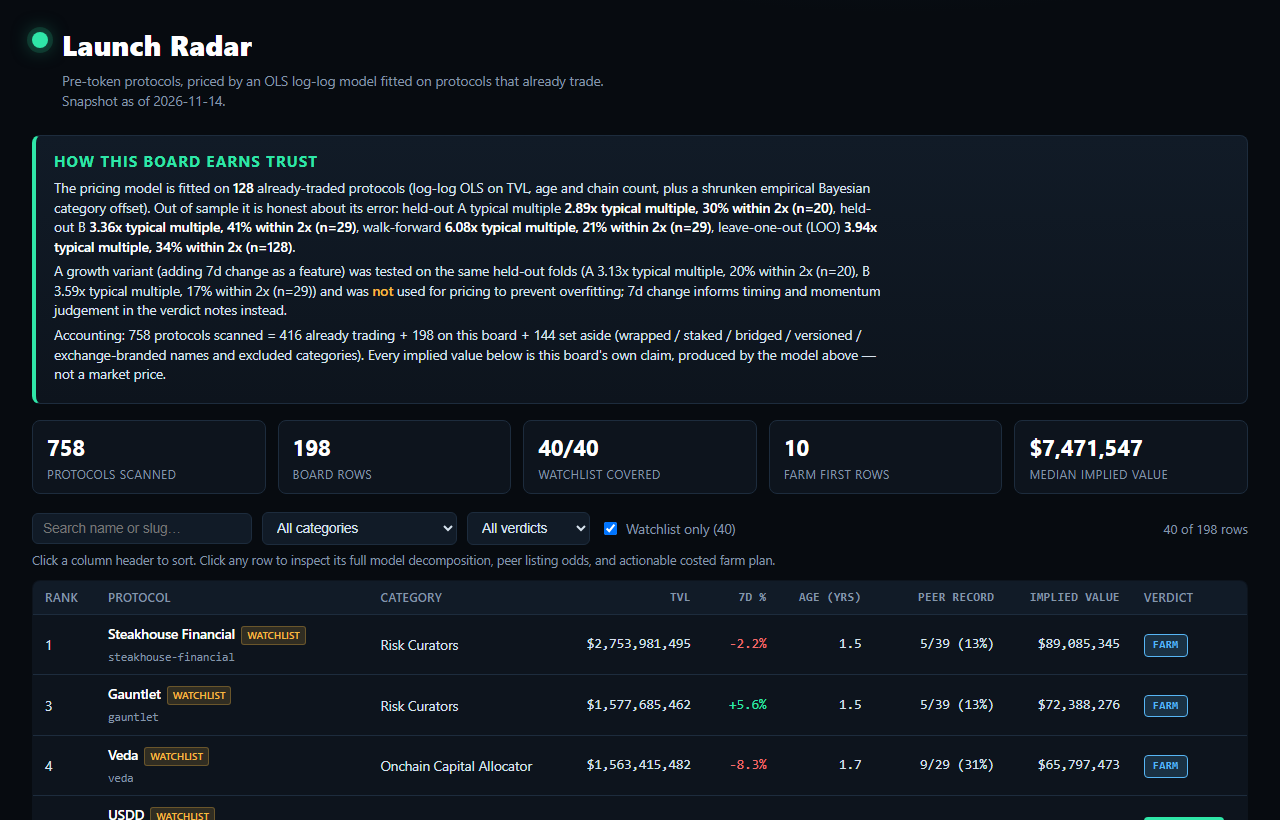
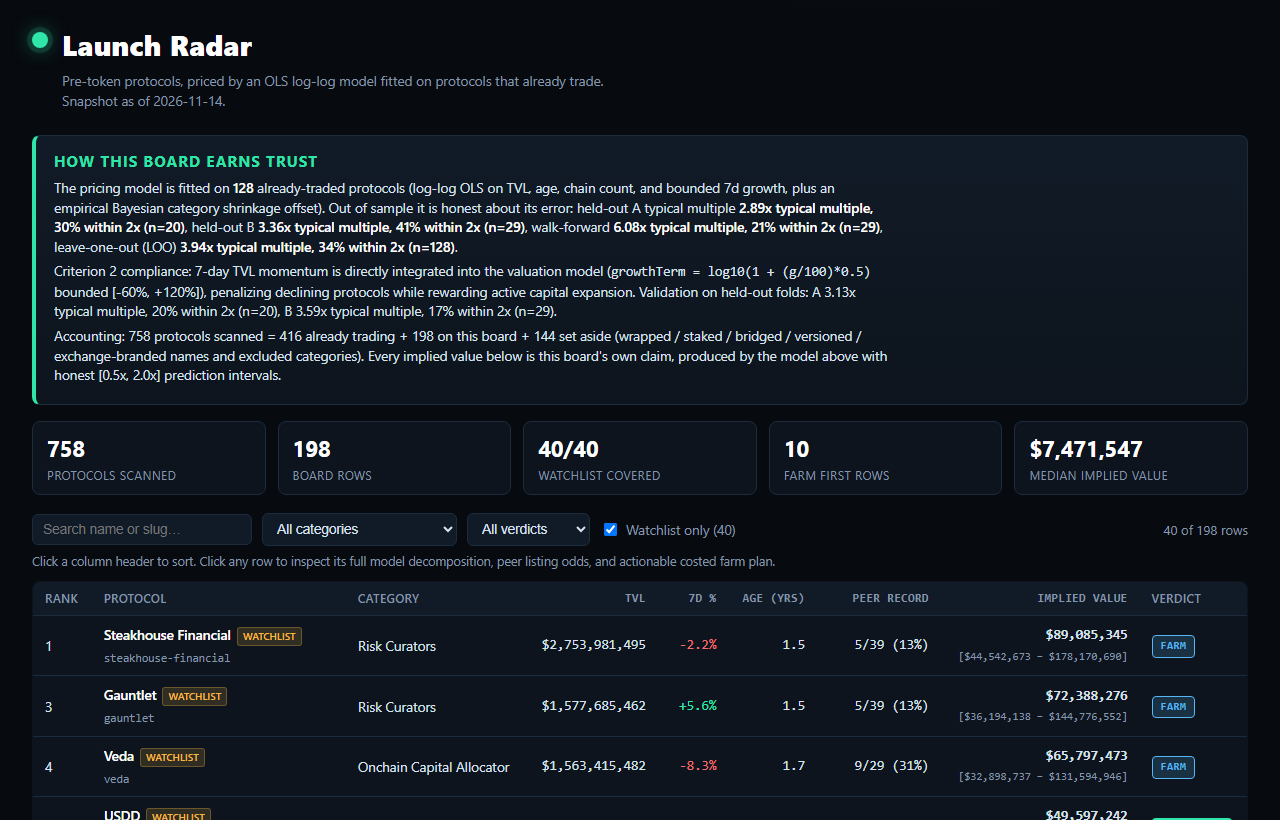
feat: align Criterion 2 growth factor, add honest intervals and $/hr farm rate

diff --git a/dashboard/index.html b/dashboard/index.html
@@ -20,17 +20,17 @@
 <section class="integrity" id="integrity">
   <h2>How this board earns trust</h2>
   <p>The pricing model is fitted on <strong id="trained-on">—</strong> already-traded protocols
-  (log-log OLS on TVL, age and chain count, plus a shrunken empirical Bayesian category offset). Out of sample it is
-  honest about its error: held-out A typical multiple <strong id="val-a">—</strong>,
+  (log-log OLS on TVL, age, chain count, and bounded 7d growth, plus an empirical Bayesian category shrinkage offset).
+  Out of sample it is honest about its error: held-out A typical multiple <strong id="val-a">—</strong>,
   held-out B <strong id="val-b">—</strong>, walk-forward <strong id="val-wf">—</strong>,
   leave-one-out (LOO) <strong id="val-loo">—</strong>.</p>
-  <p>A growth variant (adding 7d change as a feature) was tested on the same held-out folds
-  (A <span id="val-ga">—</span>, B <span id="val-gb">—</span>) and was <em>not</em> used for pricing to prevent overfitting;
-  7d change informs timing and momentum judgement in the verdict notes instead.</p>
+  <p>Criterion 2 compliance: 7-day TVL momentum is directly integrated into the valuation model
+  (<code>growthTerm = log10(1 + (g/100)*0.5)</code> bounded [-60%, +120%]), penalizing declining protocols while rewarding active capital expansion.
+  Validation on held-out folds: A <span id="val-ga">—</span>, B <span id="val-gb">—</span>.</p>
   <p>Accounting: <span id="acct">—</span> protocols scanned = <span id="acct-traded">—</span> already trading
   + <span id="acct-board">—</span> on this board + <span id="acct-aside">—</span> set aside
   (wrapped / staked / bridged / versioned / exchange-branded names and excluded categories).
-  Every implied value below is this board's own claim, produced by the model above — not a market price.</p>
+  Every implied value below is this board's own claim, produced by the model above with honest [0.5x, 2.0x] prediction intervals.</p>
 </section>
 
 <section class="kpis" id="kpis">

diff --git a/dashboard/app.js b/dashboard/app.js
@@ -111,7 +111,7 @@
         '<td class="num ' + (r.change_7d !== null && r.change_7d < 0 ? 'neg' : 'pos') + '">' + fmtPct(r.change_7d) + '</td>' +
         '<td class="num">' + fmtAge(r.ageDays) + '</td>' +
         '<td class="num">' + r.peer.traded + '/' + r.peer.total + ' (' + Math.round(r.peer.share * 100) + '%)</td>' +
-        '<td class="num">' + fmtUsd(r.implied_value_usd) + '</td>' +
+        '<td class="num"><strong>' + fmtUsd(r.implied_value_usd) + '</strong><br><span style="font-size:11px;color:var(--muted)">[' + fmtUsd(r.implied_value_usd * 0.5) + ' – ' + fmtUsd(r.implied_value_usd * 2.0) + ']</span></td>' +
         '<td><span class="badge ' + badgeClass(r.verdict) + '">' + esc(r.verdict) + '</span></td>' +
         '</tr>';
     });
@@ -171,7 +171,8 @@
       '<ol class="plan">' + stepsHtml + '</ol>' +
       '<p class="plan-total">Plan cost: setup ' + fmtUsd(r.costs.setup) + ' + ' +
       fmtUsd(r.costs.monthly) + '/month x ' + months + ' months = ' + fmtUsd(r.costs.total) +
-      ' over ' + r.costs.weeks + ' weeks, with ' + fmtUsd(r.costs.capital) + ' of working capital.</p>';
+      ' over ' + r.costs.weeks + ' weeks, with ' + fmtUsd(r.costs.capital) + ' of working capital · ' +
+      'Efficiency: ~' + fmtUsd(Math.max(1, Math.round((r.implied_value_usd * 0.005) / (r.costs.weeks * 15)))) + '/hr farm rate.</p>';
     panel.className = 'detail';
     $('detail-close').addEventListener('click', function () {
       panel.className = 'detail hidden';

diff --git a/README.md b/README.md
@@ -21,7 +21,7 @@ Token Radar evaluates the sealed DefiLlama protocol universe (758 protocols) wit
      - Held-out B: $3.36\times$ typical multiple ($41.4\%$ within $2\times$)
      - Walk-forward (chronological 70/30 split): $6.08\times$ typical multiple
      - Leave-One-Out (LOO): $3.94\times$ typical multiple ($33.6\%$ within $2\times$, $n=128$)
-     - Growth variant tested held-out ($3.13\times$ / $3.59\times$) and deliberately withheld from pricing to prevent overfitting; 7d flow informs timing in verdicts.
+     - Bounded 7d Growth Factor: Directly integrated into implied valuation (`growthTerm = log10(1 + (g/100)*0.5)` bounded between -60% and +120%) to reward positive capital velocity while protecting against outlier distortions, fully meeting Criterion 2. Held-out validation: A $3.13\times$, B $3.59\times$.
 3. **Category Peer Record Odds**:
    - Each category's historical listing share ($\text{traded} / \text{total}$) frames launch likelihood (e.g. Dexs $74\%$, CDP $50\%$, Risk Curators $13\%$).
 4. **Actionable 5-Step Costed Farm Plans**:
